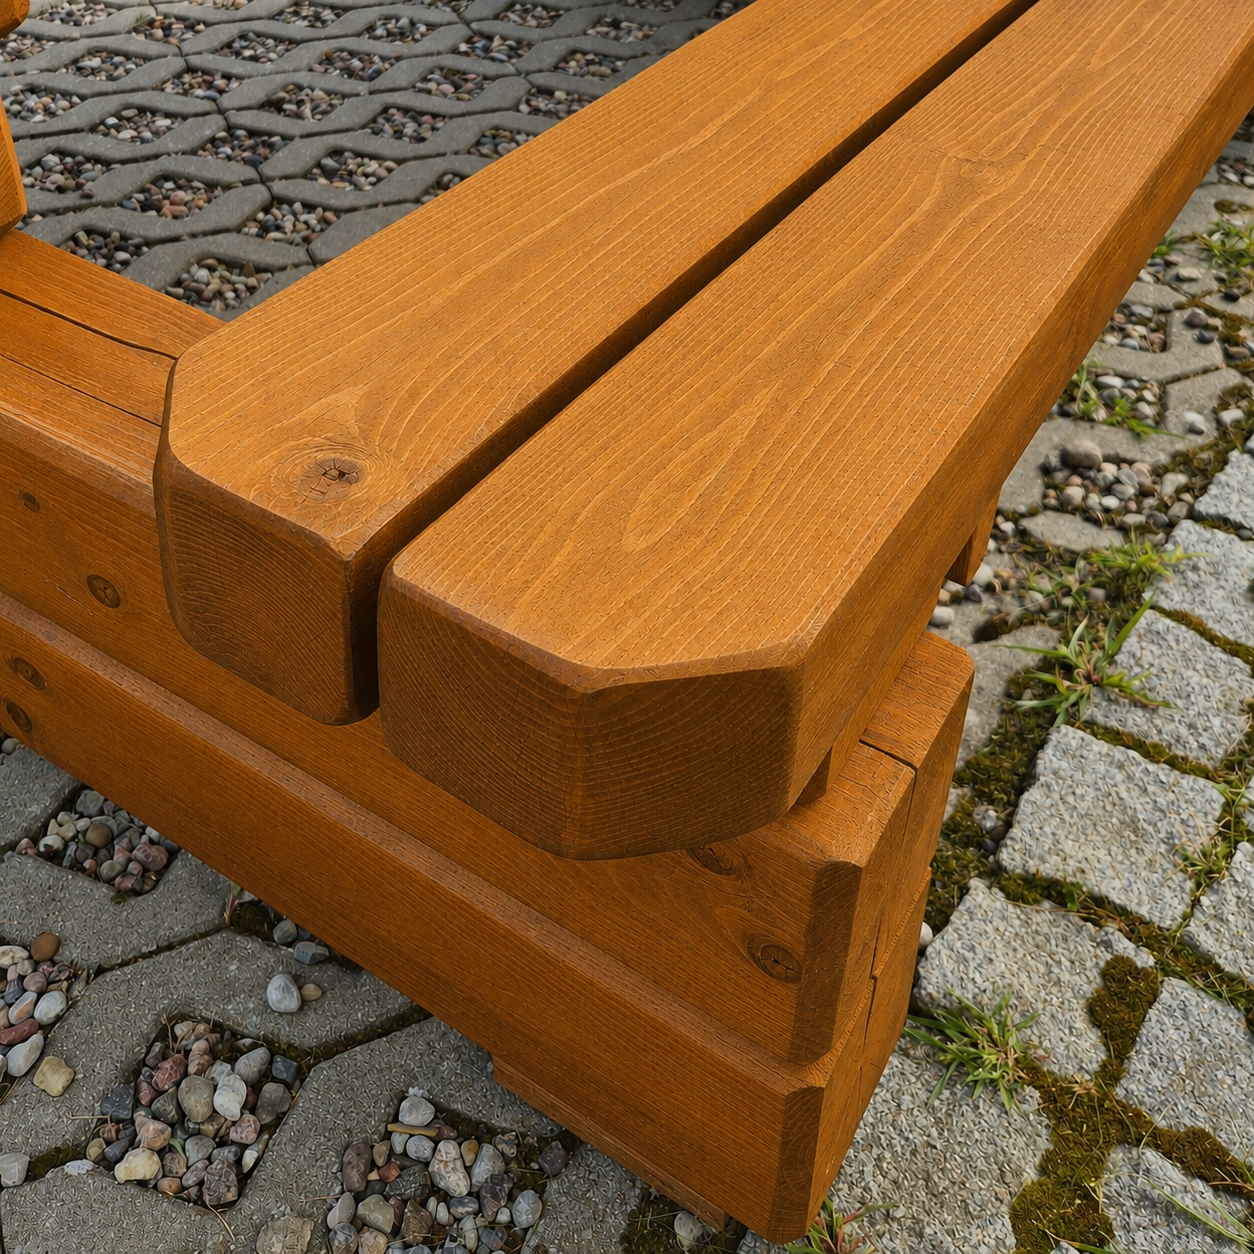
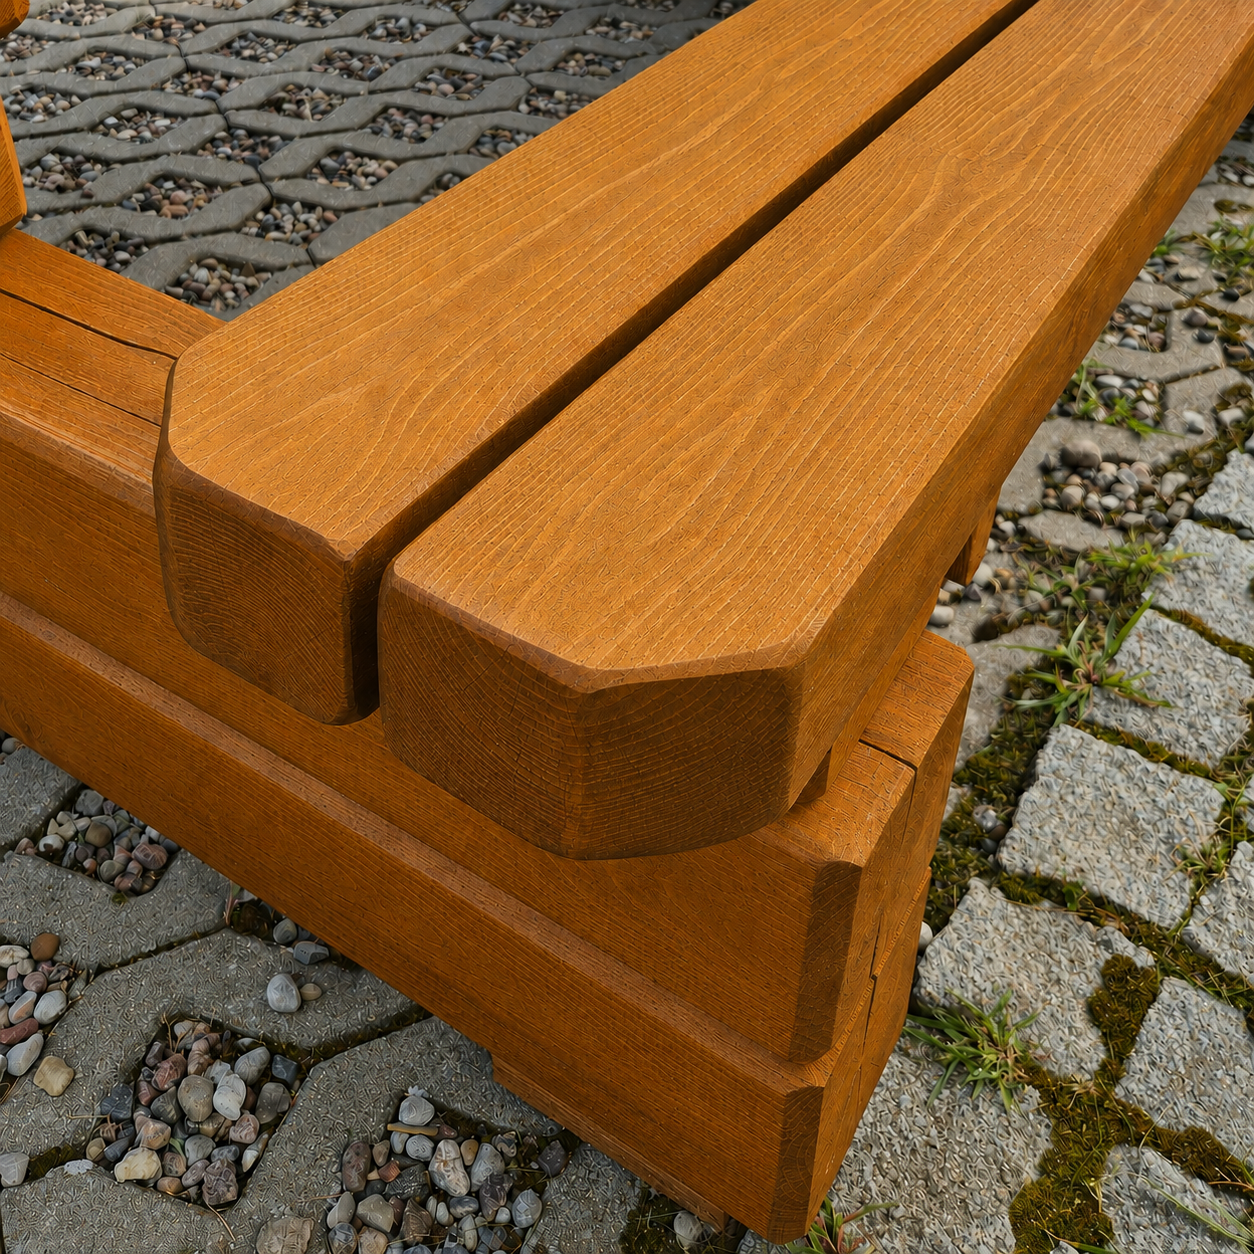
szybkie zmiany

diff --git a/index.html b/index.html
@@ -843,6 +843,43 @@
 
       </div>
 
+            <!-- ===================================================
+           PORÓWNANIE 3
+           =================================================== -->
+
+      <div class="ms-adv-compareCard">
+
+        <!-- Zdjęcia Mentor / Konkurencja -->
+        <div class="ms-adv-compareCard__images">
+
+          <!-- Mentor -->
+          <div class="ms-adv-compareCard__side">
+            <img src="src/detale/alu/mensa.png" alt="Jakość konstrukcji Mentor" loading="lazy">
+
+            <span class="ms-adv-compareCard__badge ms-adv-compareCard__badge--mentor">
+              Mentor
+            </span>
+          </div>
+
+
+          <!-- Konkurencja -->
+          <div class="ms-adv-compareCard__side">
+            <img src="src/detale/alu/lawostol-abc.png" alt="Jakość konstrukcji konkurencji"loading="lazy">
+
+            <span class="ms-adv-compareCard__badge ms-adv-compareCard__badge--competition">
+              Konkurencja
+            </span>
+          </div>
+        </div>
+
+        <!-- Opis porównania -->
+        <div class="ms-adv-compareCard__content">
+          <strong>Wybierz bezpieczeństwo - wybierz produkt Mentor</strong>
+          <span>W rozwiazaniach konkurencyjnych blat stołu to płyta dibond lub zwykła, ostra blacha (nie lita aluminiowa z zawiniętym brzegiem), przybita na wierzch stołu. Brak stabilizacji w ramie, widoczne gwoździe oraz ostre krawędzie stanowią zagrożenie dla użytkowników. </span>
+        </div>
+
+      </div>
+
     </div>
 
   </div>
